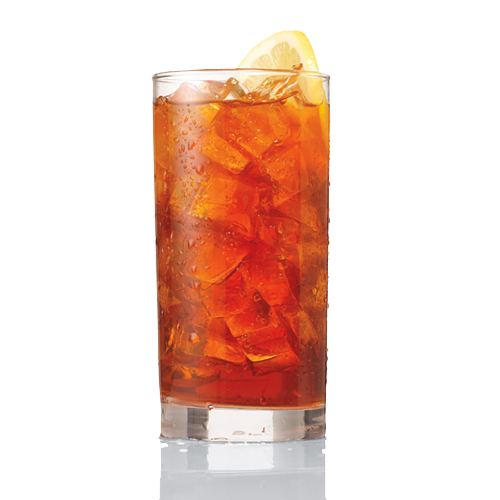
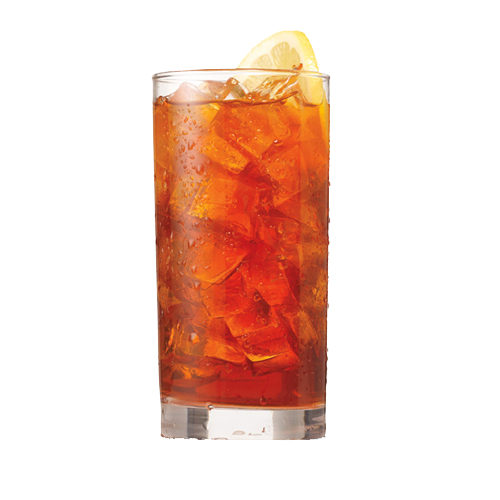
skeleton.php

Changed region(s): [[0.3, 0.87, 0.66, 1.0]]

diff --git a/themes/Maxim/skeleton.php b/themes/Maxim/skeleton.php
@@ -156,7 +156,7 @@
 				</div>
 				<div class="span4 animated-fast flyIn">
 					<div class="service-box">
-						<img src="<?=_SPPATH;?>/uploads/<?=Efiwebsetting::getData("menu_minuman3")?>"  alt="" />
+						<img src="<?=_SPPATH;?>/uploads/<?=Efiwebsetting::getData("menu_minuman")?>"  alt="" />
 						<h2> Rp. 6000.-</h2>
 						<p>
 							
@@ -180,7 +180,7 @@
 				</div>
 				<div class="span4 animated flyIn">
 					<div class="service-box">
-						<img src="<?=_SPPATH;?>/uploads/<?=Efiwebsetting::getData("menu_minuman5")?>" height="500" width="300" alt="" />
+						<img src="<?=_SPPATH;?>/uploads/<?=Efiwebsetting::getData("menu_minuman5")?>"  alt="" />
 						<h2> Rp. 4000.-</h2>
 						<p>
 							
@@ -189,7 +189,7 @@
 				</div>
 				<div class="span4 animated-fast flyIn">
 					<div class="service-box">
-						<img src="<?=_SPPATH;?>/uploads/<?=Efiwebsetting::getData("menu_minuman6")?>" height="400" width="200" alt="" />
+						<img src="<?=_SPPATH;?>/uploads/<?=Efiwebsetting::getData("menu_minuman6")?>" alt="" />
 						<h2> Rp. 4000.-</h2>
 						<p>
 							
@@ -351,18 +351,9 @@
 				<div class="span6 alignright flyLeft">
 
 				
-<!-- <h3><font color="#fff">
-				<li>Ayam Keprabon Mojosongo</li>
-					<li>Ayam Keprabon Express Margonda</li>
-					<li>Ayam Keprabon Express Kelapa Dua, Depok</li>
-					<li>Ayam Keprabon Binus</li>
-					<li>Ayam Keprabon Teluk Gong</li>
-					<li>Ayam Keprabon Palmerah</li>
-					<li>Ayam Keprabon Express Condet</li>
-					<li>Ayam Keprabon Pusat</li>
-					<li>Ayam Keprabon Jembatan Lima</li>
-					<li>Ayam Keprabon Boyolali</li>
-				</font></h3> -->
+<h3><font color="#fff">
+				<h3> <?=Efiwebsetting::getData("Address1") ?> 
+				</font></h3>
 				</div>
 				<div class="span6 aligncenter flyRight">
 					<img src="<?=_SPPATH;?>/uploads/<?=Efiwebsetting::getData("gambar_maps")?>" height= "10000" width="10000" alt="" />

diff --git a/router.php b/router.php
@@ -13,9 +13,9 @@
  * 
 
  ************************************/
-ini_set('display_errors', 1);
-ini_set('display_startup_errors', 1);
-error_reporting(E_ALL);
+// ini_set('display_errors', 1);
+// ini_set('display_startup_errors', 1);
+// error_reporting(E_ALL);
 /******************************
  *  LOAD All Frameworks
  *  using Leap loosely coupled Object Oriented Framework
